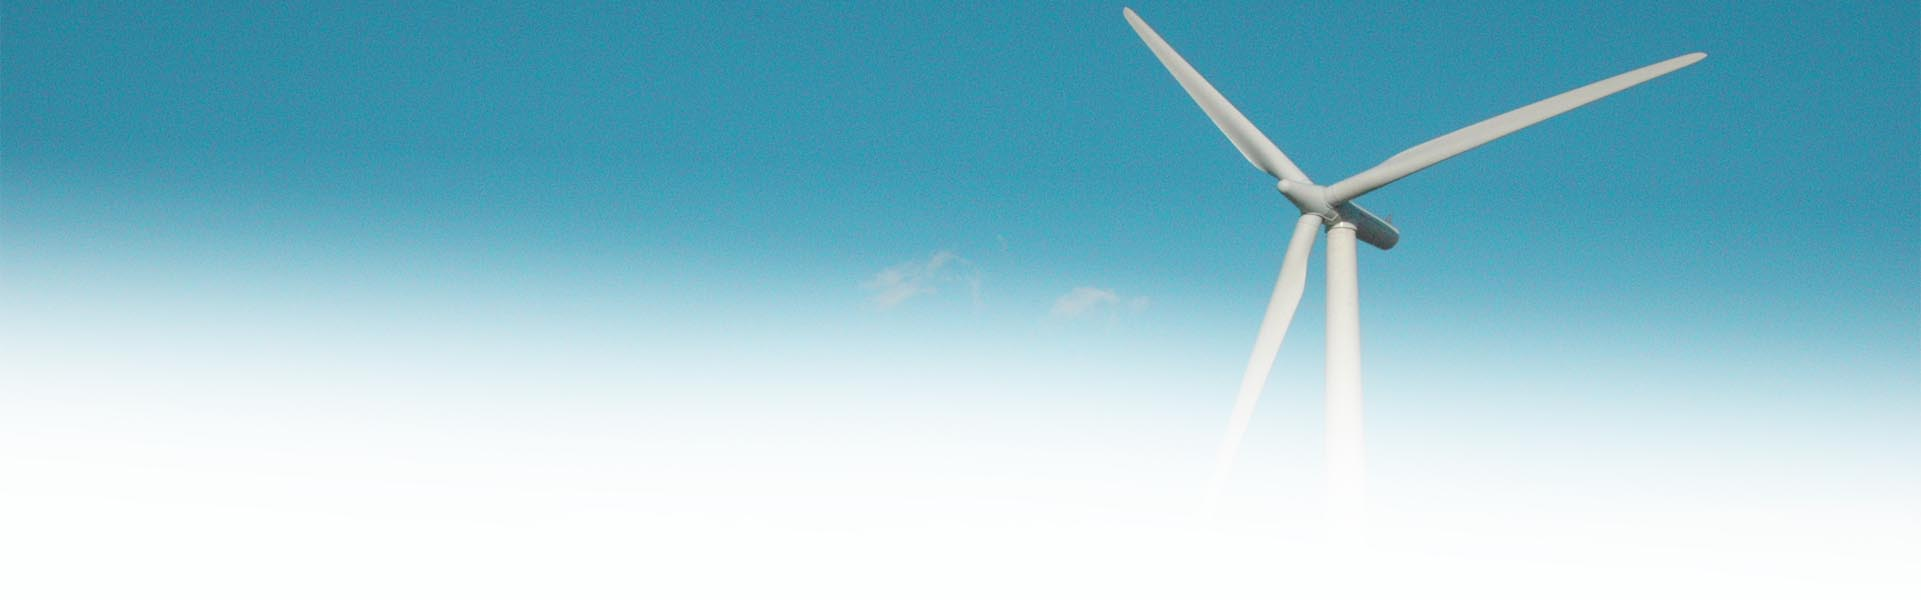
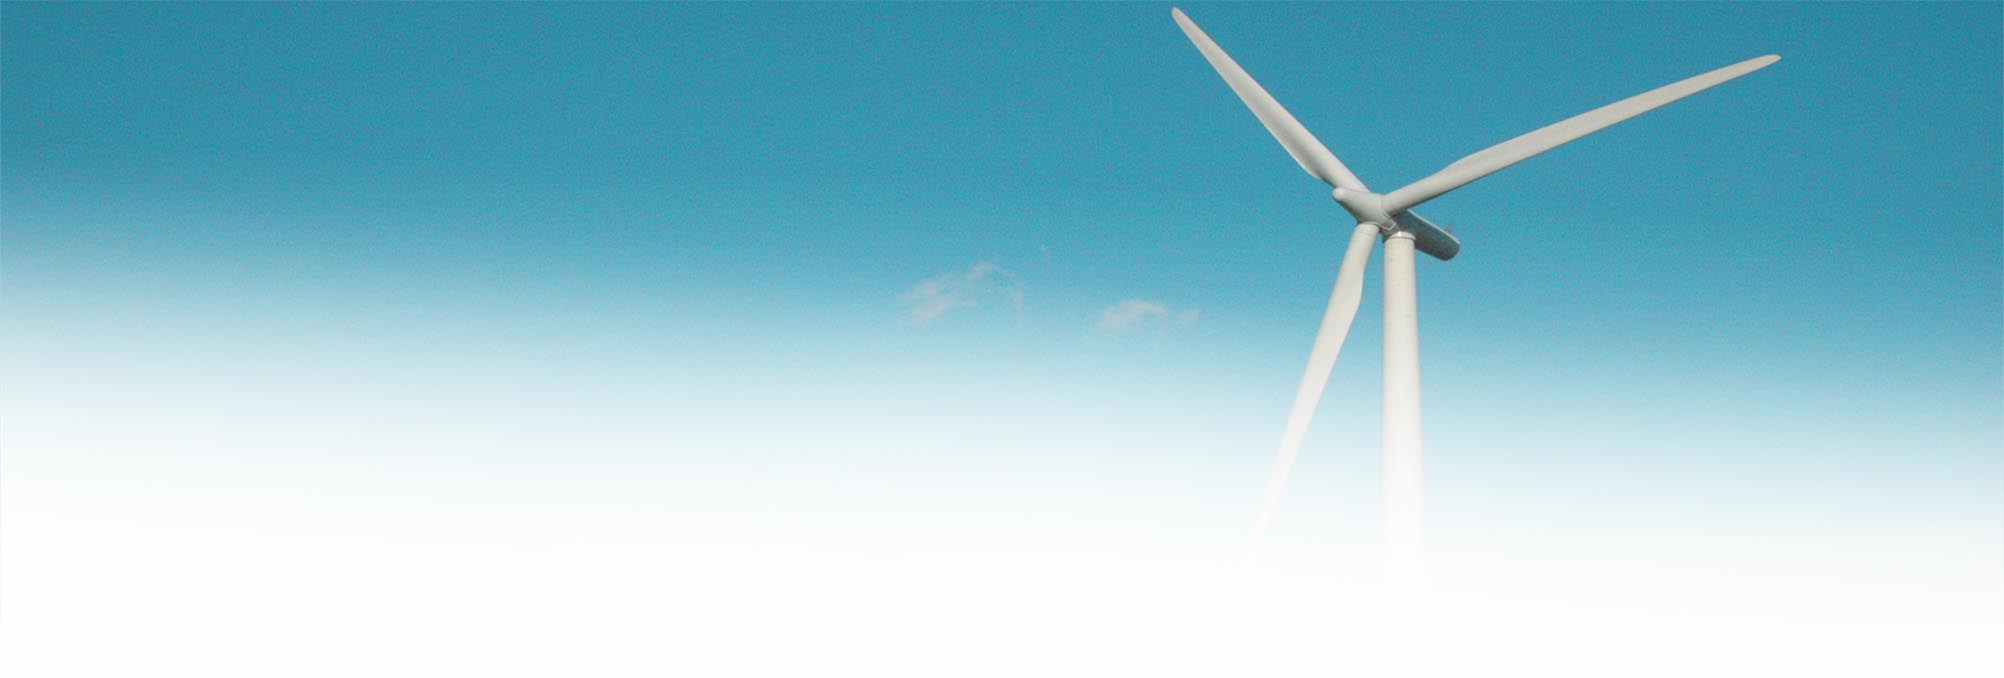
avanzando con los estilos para el index

diff --git a/css/estilos.css b/css/estilos.css
@@ -8,15 +8,35 @@ body{
 	font-weight: 300;
 }
 
-body section#cuerpo h1{
+body section#cuerpo h1, body section#cuerpo h2{
+	color: whitesmoke;
+	font-family: 'Lato', Arial;
 	font-size: 1.4em;
-	margin: 10px 5%;
+	font-weight: 100;
+	margin: 0;
+	padding: 10px 5%;
 }
 
 body section#cuerpo p{
-	font-size: 1em;
+	font-family: 'Lato', arial;
+	font-size: 1.2em;
 	text-align: justify;
 	margin: 15px 5%;
+}
+#h-art-en{
+	background-color: rgba(143,190,0,0.6);
+}
+#h-art-so{
+	background-color: rgba(218, 201, 7, 0.6);
+}
+#h-art-eo{
+	background-color: rgba(64,192,203,0.6);
+}
+#h-art-hi{
+	background-color: rgba(213, 147, 31, 0.59);
+}
+#h-art-in{
+	background-color: rgba(88, 153, 6, 0.6);	
 }
 
 #contenedor{
@@ -24,18 +44,18 @@ body section#cuerpo p{
 	width: 100%;
 }
 #contenedor #cuerpo{
-	
-	background: white;
+	background: rgba(248, 246, 242, 0.94);
 	height: auto;
 	margin:0 auto;
 	margin-bottom: 100px;
 	width: 1002px;
 
 }
-
+.art-box{
+	background-color: rgba(2, 2, 2, 0.12);
+}
 
 .art-destacado{
-	background-color: grey;
 	display: inline-block;
 	height: 300px;
 	margin:1%;
@@ -44,16 +64,14 @@ body section#cuerpo p{
 }
 
 .art-nivel1{
-	background-color: grey;
 	display: inline-block;
 	height: 300px;
-	margin:1%;
+	margin:1% 1% 1% 0.5%;
 	vertical-align: top;
-	width: 40%;
+	width: 41%;
 }
 
 .art-nivel2{
-	background-color: peru;
 	display: inline-block;
 	height: 300px;
 	margin-left:1%;
@@ -66,11 +84,10 @@ body section#cuerpo p{
 }
 
 .slider{
-	background-color: grey;
 	display: inline-block;
 	height: 300px;
 	width: 56%;
-	margin:1%;
+	margin:1% 0.5% 1% 1%;
 }
 
 .titulo1{

diff --git a/css/header.css b/css/header.css
@@ -336,7 +336,6 @@ nav ul li a:hover{
 @media screen and (max-width: 479px){
 
 	header div{
-		background-position: -100px 0px;
 		background-size: auto 100%;
 		height: auto;
 		width: 100%;

diff --git a/index.php b/index.php
@@ -16,11 +16,11 @@
 	<section id="contenedor">
 		<?php include("scripts/header.php"); ?>
  		<section id="cuerpo" class="shadow">
-	 			<article class="slider">
+	 			<article class="slider art-box">
 	 				Slider
 	 			</article><!--
-	 		--><article class="art-nivel1">
-	 				<h1>Energia Renovable en la Rivera Maya</h1>
+	 		--><article class="art-nivel1 art-box">
+	 				<h1 id="h-art-en">Energia Renovable en la Rivera Maya</h1>
 	 					<p>
 	 						La energía renovable es aquella la energía que se obtiene de fuentes naturales virtualmente inagotables, 
 	 						unas por la inmensa cantidad de energía que contienen, y otras porque son capaces de regenerarse por medios 
@@ -31,32 +31,32 @@
 	 						que un buen diseño permite obtener grandes... más
 	 					</p>
 	 			</article><!--
- 			--><article class="art-nivel2">
-	 				<h2 class="titulo1">Sistema Solar</h2>
+ 			--><article class="art-nivel2 art-box">
+	 				<h2 id="h-art-so" class="titulo1">Sistema Solar</h2>
 	 				<p>
 
 	 				</p>
 	 				<p>
 	 				</p>
 	 			</article><!--
-	 			--><article class="art-nivel2">
-	 				<h2 class="titulo1">Sistema Eolico</h2>
+	 			--><article class="art-nivel2 art-box">
+	 				<h2 id="h-art-eo" class="titulo1">Sistema Eolico</h2>
 	 				<p>
 
 	 				</p>
 	 				<p>
 	 				</p>
 	 			</article><!--
-	 			--><article class="art-nivel2">
-	 				<h2 class="titulo1">Sistema Hibrido Solar</h2>
+	 			--><article class="art-nivel2 art-box">
+	 				<h2 id="h-art-hi" class="titulo1">Sistema Hibrido Solar</h2>
 	 				<p>
 
 	 				</p>
 	 				<p>
 	 				</p>
 	 			</article><!--
-	 			--><article class="art-destacado">
-	 				<h2 class="titulo1">Interconexion a la Red</h2>
+	 			--><article class="art-destacado art-box">
+	 				<h2 id="h-art-in" class="titulo1">Interconexion a la Red</h2>
 	 				<p>
 
 	 				</p>
